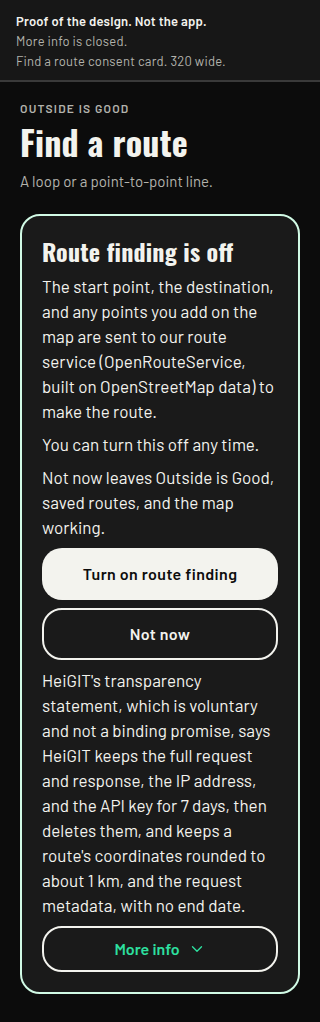
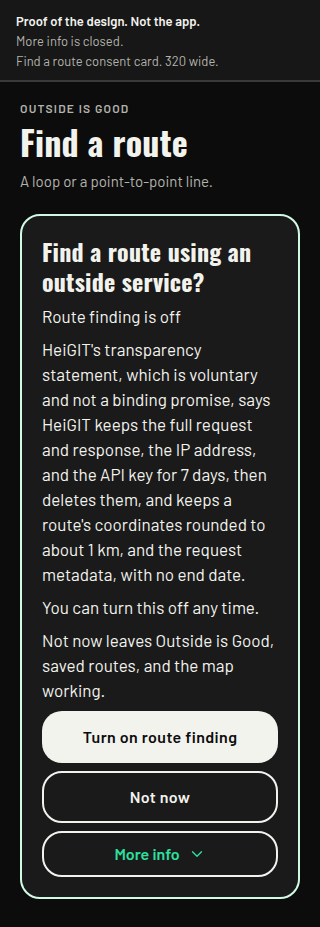
Add question headings for the outing and route-finding consent.
Design only. The GPS question stays on the Start card. Route finding gets its own question, and the visible keep sentence still names what HeiGIT retains.

diff --git a/docs/route-consent-layout-decisions.md b/docs/route-consent-layout-decisions.md
@@ -1,16 +1,22 @@
-# Route finding, short, with the keep still in view
+# Route finding, and the outing, with a question on top
 
-Design only. Ben has not approved this. No screen change on this branch. No migration is written or applied. No deploy. `ios.buildNumber` stays 72. No new permission. No new purpose string. No SQL. Branched from the build 75 integration tip `ff6c958` (PR #46). Not shipped.
+Design only. Ben has not approved the new headings or the new sentences. No screen change on this branch. No migration is written or applied. No deploy. `ios.buildNumber` stays 72. No new permission. No new purpose string. No SQL. Branched from the build 75 integration tip `ff6c958` (PR #46). Not shipped.
 
-Ben, 27 October 2026: "It just doesn't look user friendly so can you move large body of text below the functionality, or put the core message in one small sentence a pre the more info button. The problem is, when humans see large bodies of text like that, they tend to not read it anyway."
+Ben, 27 October 2026, on the route-service card: "It just doesn't look user friendly so can you move large body of text below the functionality, or put the core message in one small sentence a pre the more info button. The problem is, when humans see large bodies of text like that, they tend to not read it anyway."
 
-He means the route-service retention line. Security wants that keep visible on the consent card and on the Profile switch before any external or store release. HeiGIT keeps the full request and response, the IP address, and the API key for 7 days, then deletes them. For a route, coordinates rounded to about 1 km, and the request metadata, are kept with no end date. Both screens need that keep in view, and the card short enough that a person will read it.
+Later the same day: "Maybe something like \"Track Your GPS in the Background?\"" He then asked, about that question on both screens: "Would it make sense on both?"
 
-The layout proofs are drawings of the proposed cards. Each one is labelled "Proof of the design. Not the app." They are not screenshots of the running app. More info is closed in every drawing.
+His aim is that nobody reads a big block. Each text-heavy consent screen gets a plain question heading, then one short sentence that carries the core, with the long approved text behind More info, below the controls.
+
+The GPS question fits the outing setup, before Start a walk, Start a run, or Start a cycle. It does not fit route finding. Route finding is not GPS tracking. The consent card and the Profile switch get their own question, and that question does fit both of those screens.
+
+The layout proofs are drawings. Each one is labelled "Proof of the design. Not the app." They are not screenshots of the running app. More info is closed in every drawing.
 
 ## What the code does today
 
 Checked on `ff6c958`.
+
+### Route finding
 
 `RouteServiceNotice` in `src/ui/RouteServiceNotice.tsx` is the shared block. The consent card (`src/ui/RouteConsentCard.tsx`) and the Profile switch (`src/ui/RouteFindingSwitch.tsx`) both use it. Find a route shows the card before any route call (`src/app/(main)/find-route.tsx`). You shows the switch under Appearance (`src/app/(main)/profile.tsx`).
 
@@ -25,6 +31,8 @@ The consent card then shows "Not now leaves Outside is Good, saved routes, and t
 The Profile card then shows the switch labelled Route finding, then the status line. With nothing stored yet, that line is "Off. Nothing is stored until you choose." When the switch is already on, the status line is "On since {when}. Stored on this phone only. Wording 2026-10-26-1."
 
 Opening More info expands in place, above those controls, so the long text pushes the switch and the buttons down the card.
+
+There is no question heading. The card title on Find a route is "Route finding is off". The Profile card label is "Route finding".
 
 The lines inside More info, in this order, word for word:
 
@@ -45,92 +53,160 @@ The lines inside More info, in this order, word for word:
 
 `src/domain/findRoute.test.ts` checks that the first line comes before More info, and that "You can turn this off any time." comes after More info. A later build updates that check. This sheet does not.
 
+### The outing, before Start
+
+The setup screen is `src/app/(main)/activity.tsx`. The eyebrow is Tools. The title is Start a walk, Start a run, or Start a cycle. The intro is "You choose the pace. The phone keeps the time."
+
+The card above the buttons shows `beforeStartLine()` in full, then **Start** and **Not now**, then `ACTIVITY_LOCATION_LINE` in full:
+
+- You can lock the phone, take a call, or open another app. Measuring continues until you tap Stop, or for six hours. A blue location mark shows while it is on. The route stays on this phone. If the app is closed, that route is lost.
+- Distance and pace keep going after you lock the phone, until you tap Stop or six hours pass. The route stays in memory for that outing. It is cleared when you stop or discard it. If the app is closed, it is lost. The outing path is not sent.
+
+Good to know sits under that card. It keeps the safety lines, the path line, the battery line, and `ACTIVITY_LOCATION_LINE` again. This sheet does not fold Good to know away.
+
+The iOS permission dialog, asked from Start, shows `LOCATION_WHEN_IN_USE` in `src/domain/outdoorRoute.ts`. That string is also the purpose sentence in `app.json`. It is not drawn as an in-app card. Word for word:
+
+> Charioteer uses your location while you are on a walk, run or cycle to track distance and give you spoken updates, including when the screen is locked or you are using other apps. Your route stays on your phone and is not sent anywhere. The same permission shows where you are while the map is open. A route is sent to the route service only if you turn route finding on. That request is the start, the destination, and any points you add on the map. It is not the outing path.
+
+There is no Always location sentence. `NSLocationAlwaysAndWhenInUseUsageDescription` is not set. Measuring continues while the screen is locked or another app is in front, until Stop or six hours. If the app is closed, the route is lost.
+
+On the live screen the intro is already one line: "You can lock the phone. Measuring continues until you tap Stop." This sheet does not put the question on that screen. The person has already tapped Start.
+
 ## Recommendation
 
-Option 1.
+### The outing setup
 
-Keep the approved first sentence, and keep "You can turn this off any time." Both stay in view, above the controls. Do not rewrite them.
+Question heading, in the app's sentence case. The words are Ben's. On screen they follow the other headings, so "Your" and "Background" are not capitals. Not approved until Ben says so.
 
-The first sentence:
+> Track your GPS in the background?
 
-> The start point, the destination, and any points you add on the map are sent to our route service (OpenRouteService, built on OpenStreetMap data) to make the route.
+It means the outing he is about to start. The phone can be locked, or another app can be in front, and measuring continues. It does not ask for Always location. Closing the app loses the route. The short sentence says that, so the heading is not an Always prompt.
 
-Put one new sentence on both screens, immediately above More info, and under the controls. It carries the retention core. It is not approved until Ben says so.
+One sentence under the heading, above Start. Not approved until Ben says so.
+
+> Measuring continues when the screen is locked or you are using other apps, until you tap Stop or six hours pass, and your route stays on your phone and is not sent anywhere, and that route is lost if the app is closed.
+
+It uses the approved clauses. "Your route stays on your phone and is not sent anywhere" is the purpose-string clause, with a small "your" because it sits in the middle of the sentence. The purpose string itself is not edited. The sentence also says the measuring stops at Stop or six hours, and that closing the app loses the route.
+
+Below Start and Not now, More info, closed. Opening it shows these three blocks, word for word, in this order. A later build should render the constants, not a second copy of the words.
+
+1. You can lock the phone, take a call, or open another app. Measuring continues until you tap Stop, or for six hours. A blue location mark shows while it is on. The route stays on this phone. If the app is closed, that route is lost.
+2. Distance and pace keep going after you lock the phone, until you tap Stop or six hours pass. The route stays in memory for that outing. It is cleared when you stop or discard it. If the app is closed, it is lost. The outing path is not sent.
+3. Charioteer uses your location while you are on a walk, run or cycle to track distance and give you spoken updates, including when the screen is locked or you are using other apps. Your route stays on your phone and is not sent anywhere. The same permission shows where you are while the map is open. A route is sent to the route service only if you turn route finding on. That request is the start, the destination, and any points you add on the map. It is not the outing path.
+
+Block 3 is the purpose sentence, shown again so the full permission explanation is one tap away. `app.json` and the system dialog keep that same string. This design does not change it.
+
+Good to know stays under the card, as it is now, including the safety lines and the battery line. The live-screen intro stays the one approved line.
+
+Order on the Start card:
+
+1. Track your GPS in the background?
+2. The new sentence (not approved)
+3. Start
+4. Not now
+5. More info
+
+### Route finding, both screens
+
+The GPS question does not go here. A route call sends the start, the destination, and any points added on the map. It is not the outing path. The route-service line already says "Location is used only while the app is open."
+
+Recommended heading, on the consent card and on the Profile switch. Not approved until Ben says so.
+
+> Find a route using an outside service?
+
+It is a question about the choice on that card. It does not say GPS, and it does not say the outing is tracked. "Send your route to an outside service?" is the heading not to use. "Your route" is easy to read as the outing path, and the purpose sentence says that request is not the outing path.
+
+One sentence under the heading, above the controls, on both screens. This is the retention core. It is not approved until Ben says so. It is the same sentence as the earlier note on this sheet.
 
 > HeiGIT's transparency statement, which is voluntary and not a binding promise, says HeiGIT keeps the full request and response, the IP address, and the API key for 7 days, then deletes them, and keeps a route's coordinates rounded to about 1 km, and the request metadata, with no end date.
 
-It is one sentence. It is longer than a slogan, because a shorter line would leave out part of what is kept. It names the full request and the response, the IP address, the API key, the 7 days and the deletion, a route's coordinates rounded to about 1 km, the request metadata, and no end date. It says the statement is voluntary and not a binding promise. "A route's coordinates" matches the approved line: a place search is not kept past the 7 days, and that limit stays in the note inside More info.
+It is one sentence, and it is longer than a slogan. A shorter line would leave out part of what is kept. It names the full request and the response, the IP address, the API key, the 7 days and the deletion, a route's coordinates rounded to about 1 km, the request metadata, and no end date. It says the statement is voluntary and not a binding promise. "A route's coordinates" matches the approved line. A place search is not kept past the 7 days. That limit stays in the note inside More info.
 
-Two clauses from the approved paragraph stay in that paragraph, word for word, inside More info: "to look for abuse", and "This is done on servers in the EU." They say why the 7 days are kept, and where. They are not a further category of data. Option 2 puts them in the visible sentence if Ben wants them in view without a tap.
+"To look for abuse" and "This is done on servers in the EU" stay in the approved paragraph, word for word, inside More info. They say why the 7 days are kept, and where. They are not a further category of data.
 
-The new sentence does not replace the retention paragraph. That paragraph stays inside More info, word for word, with every other line in the list above, in the same order.
+The short line Ben's note asked to set beside this one is easier to read. It is not the recommendation. It understates the keep.
 
-Move More info to sit below the functionality. On Find a route, below **Turn on route finding** and **Not now**. On You, below the switch and the status line. The long text is behind More info, under those controls. Opening More info no longer pushes the switch or the buttons down the card. More info stays closed until the person opens it.
+> The route service keeps what you send for 7 days, and a rounded version of your places with no end date.
 
-The new sentence sits between the controls and More info, so it is on the card without a tap, and the buttons stay above it. On a short phone the sentence can continue below the first screenful. The control is reached first. Option 5 puts the sentence above the controls if Ben wants it read before the tap.
+"What you send" leaves out the response, the IP address, and the API key. "A rounded version of your places" does not say about 1 km, does not say the request metadata, and can be read as the typed place. The typed place is not kept past those 7 days. The line does not say the 7-day items are then deleted. It does not say the statement is voluntary and not a binding promise.
 
-### Find a route, consent card
+"You can turn this off any time." stays in view, under the new sentence and above the controls. It is not rewritten.
 
-1. Route finding is off
-2. The approved first sentence
-3. You can turn this off any time.
-4. Not now leaves Outside is Good, saved routes, and the map working.
-5. Turn on route finding
-6. Not now
-7. The new sentence (not approved)
+The approved first sentence moves behind More info. It is not rewritten. It is the first line inside More info, then the lines already listed above, in the same order.
+
+> The start point, the destination, and any points you add on the map are sent to our route service (OpenRouteService, built on OpenStreetMap data) to make the route.
+
+The new sentence does not replace the retention paragraph. That paragraph stays inside More info, word for word.
+
+More info sits below the controls. On Find a route, below **Turn on route finding** and **Not now**. On You, below the switch and the status line. Opening it no longer pushes those controls down. It stays closed until the person opens it.
+
+Order on the consent card:
+
+1. Find a route using an outside service?
+2. Route finding is off
+3. The retention sentence (not approved)
+4. You can turn this off any time.
+5. Not now leaves Outside is Good, saved routes, and the map working.
+6. Turn on route finding
+7. Not now
 8. More info
 
-### You, Profile switch
+Order on the Profile card. The same sentences when the switch is already on. Only the status line changes. The drawing shows the switch off, with nothing stored yet.
 
-The same sentences when the switch is already on. Only the status line changes. The drawing shows the switch off, with nothing stored yet.
-
-1. Route finding (the small label)
-2. The approved first sentence
+1. Find a route using an outside service?
+2. The retention sentence (not approved)
 3. You can turn this off any time.
 4. Route finding, with the switch
 5. Off. Nothing is stored until you choose.
-6. The new sentence (not approved)
-7. More info
+6. More info
 
 ## Consent text and version
 
 No change to `ROUTE_CONSENT_LINES`. No change to `ROUTE_CONSENT_VERSION`. It stays `2026-10-26-1`.
 
-The new sentence is an extra line on the two screens. It is not added to `ROUTE_CONSENT_LINES`. The facts in it are already in the retention paragraph, which is already one of those lines.
+The route heading and the retention sentence are extra lines. They are not added to `ROUTE_CONSENT_LINES`. The facts in the sentence are already in the retention paragraph, which is already one of those lines.
 
-A new version would turn route finding off for people who already turned it on, until they turn it on again. This sheet does not do that. Ben can ask for a fresh opt-in. That would be a version change, and it is not required to show this sentence.
+A new version would turn route finding off for people who already turned it on, until they turn it on again. This sheet does not do that. Ben can ask for a fresh opt-in. That would be a version change, and it is not required to show the heading or the sentence.
 
-No permission change. No purpose-string change. No SQL. `app.json` and `Info.plist` stay as they are. `ios.buildNumber` stays 72.
+The outing heading and the outing sentence are not part of route consent. They do not use `ROUTE_CONSENT_VERSION`. The purpose sentence is unchanged, so this design does not call for a new purpose string or a new permission.
+
+No permission change. No purpose-string change. No SQL. `app.json` and `Info.plist` stay as they are. `UIBackgroundModes` stays `location` and `audio`. `ios.buildNumber` stays 72.
 
 ## Options
 
-1. Recommended. The sentence above, under the controls and immediately above More info. More info below the controls. The remaining approved text stays inside More info, word for word.
+1. Recommended. The GPS question and the outing sentence on the Start card only. The route question and the long retention sentence on the consent card and the Profile switch. More info below the controls on each, with the approved long text word for word.
 
-2. The same layout, with a longer visible sentence that also carries "to look for abuse" and the EU servers. Still one sentence. Still not approved. Use this if those two clauses must be in view without a tap:
+2. The same route layout, with Ben's shorter retention sentence in view instead of the long one. Not recommended. The wording is above, under Route finding. It understates what HeiGIT keeps.
+
+3. The same route layout, with a longer visible sentence that also carries "to look for abuse" and the EU servers. Still one sentence. Still not approved. Use this if those two clauses must be in view without a tap:
 
 > HeiGIT's transparency statement, which is voluntary and not a binding promise, says HeiGIT keeps the full request and response, the IP address, and the API key for 7 days to look for abuse, then deletes them, and keeps a route's coordinates rounded to about 1 km, and the request metadata, with no end date, on servers in the EU.
 
-3. A shorter sentence. Not recommended. It leaves out the response, the IP address, the API key, and the request metadata. It does not say the coordinates are a route's coordinates. It does not say the statement is voluntary and not a binding promise. That understates what is kept.
+4. Put "Track your GPS in the background?" on the route card and the Profile switch as well. Not recommended. Those screens do not track the outing. The route call is the start, the destination, and any points added on the map, and only while route finding is on.
 
-> The route service keeps the request for 7 days, then deletes it, and keeps coordinates rounded to about 1 km with no end date.
+5. Outing heading "Keep measuring with the phone locked?" instead of Ben's words. It names the lock, and it does not use a word Apple uses for Always location. Not the default. Ben asked for his words, and the sentence already says the route is lost if the app is closed.
 
-4. No new sentence. Move the current text below the controls, and leave the full retention paragraph in view under the controls, with the other long lines behind More info. Not recommended. The paragraph is still the large body Ben described. It does keep every approved word in view without a new sentence.
+6. Leave the approved first sentence in view, under the route question and above the retention sentence. The send is then read without a tap. Not the default. The heading is the plain form of that choice, and the sentence stays word for word inside More info. Two sentences under the heading is the wall this note is trying to avoid.
 
-5. Put the new sentence above the controls, with the first sentence, and leave More info below the controls. The keep is then read before the tap. Not recommended as the default. The sentence is long enough that, with the first sentence, it pushes **Turn on route finding** down the card. That is the reading problem Ben named.
-
-6. Add the new sentence and leave More info where it is today, above the controls. Not recommended. Opening More info still pushes the switch and the buttons down.
+7. No new route sentence. Move the current route text below the controls and leave the full retention paragraph in view. Not recommended. The paragraph is still the large body.
 
 ## Layout proofs
 
 Drawings of option 1. Proof of the design. Not the app. More info is closed. Dark theme, the same colours as the app. Widths are 320 and 390.
 
-The Find a route consent card. 320 wide, 1022 tall. 390 wide, 897 tall.
+Start a walk. The card above Start. The activity, route, and Thumos cards stay above it and are not redrawn. Good to know stays below it. 320 wide, 725 tall. 390 wide, 678 tall.
+
+![Start a walk, the location card, 320 wide. Proof of the design. Not the app.](route-consent-layout/outing_320.png)
+
+![Start a walk, the location card, 390 wide. Proof of the design. Not the app.](route-consent-layout/outing_390.png)
+
+The Find a route consent card. 320 wide, 927 tall. 390 wide, 852 tall. The retention sentence is long, so this card is still tall. The buttons sit under the sentence. The licences and the full paragraph sit under the buttons, behind More info.
 
 ![Find a route consent card, 320 wide. Proof of the design. Not the app.](route-consent-layout/consent_320.png)
 
 ![Find a route consent card, 390 wide. Proof of the design. Not the app.](route-consent-layout/consent_390.png)
 
-The Route finding card on You, under Appearance. The switch is off. 320 wide, 830 tall. 390 wide, 690 tall.
+The Route finding card on You, under Appearance. The switch is off. 320 wide, 716 tall. 390 wide, 626 tall.
 
 ![Profile route-finding switch, 320 wide. Proof of the design. Not the app.](route-consent-layout/profile_switch_320.png)
 
@@ -140,8 +216,9 @@ The Route finding card on You, under Appearance. The switch is off. 320 wide, 83
 
 Not approved. Waiting on Ben.
 
-1. Show this sentence on both screens, under the controls and immediately above More info? Recommendation: yes. "HeiGIT's transparency statement, which is voluntary and not a binding promise, says HeiGIT keeps the full request and response, the IP address, and the API key for 7 days, then deletes them, and keeps a route's coordinates rounded to about 1 km, and the request metadata, with no end date." Not approved until Ben says so.
-2. Keep the approved first sentence and "You can turn this off any time." in view, above the controls, without rewriting them? Recommendation: yes.
-3. Put More info below the buttons and below the switch, with the remaining approved text word for word inside it, in the current order? Recommendation: yes.
-4. Leave the consent lines and the version `2026-10-26-1` unchanged? Recommendation: yes. Ben can ask for a fresh opt-in. That would be a version change.
-5. No new permission, no new purpose string, and no SQL? Recommendation: yes.
+1. On the Start card, use the heading "Track your GPS in the background?" and the outing sentence above? Recommendation: yes. Not on the route card or the Profile switch. Not approved until Ben says so.
+2. On the consent card and the Profile switch, use the heading "Find a route using an outside service?" Recommendation: yes. The GPS question does not fit those screens. Not approved until Ben says so.
+3. Under that route heading, use the long retention sentence, and keep Ben's shorter line as the alternative only? Recommendation: yes. The shorter line understates the keep. Not approved until Ben says so.
+4. Put More info below the controls on each of these screens, with the approved long text word for word inside it? Recommendation: yes.
+5. Leave the consent lines and the version `2026-10-26-1` unchanged? Recommendation: yes. Ben can ask for a fresh opt-in. That would be a version change. The outing lines do not use that version.
+6. No new permission, no new purpose string, and no SQL? Recommendation: yes. The purpose sentence stays as it is.
